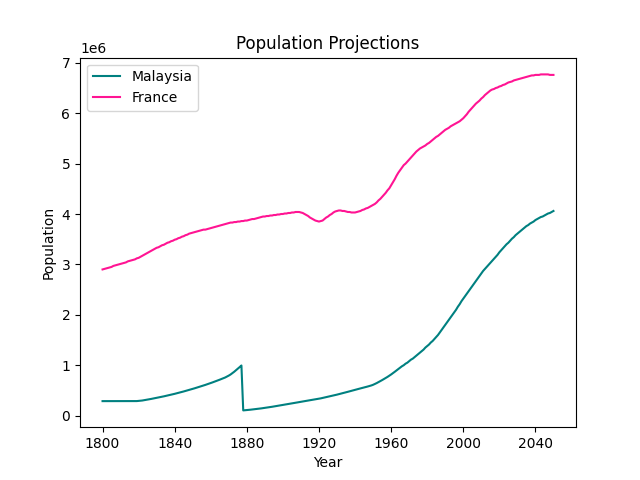
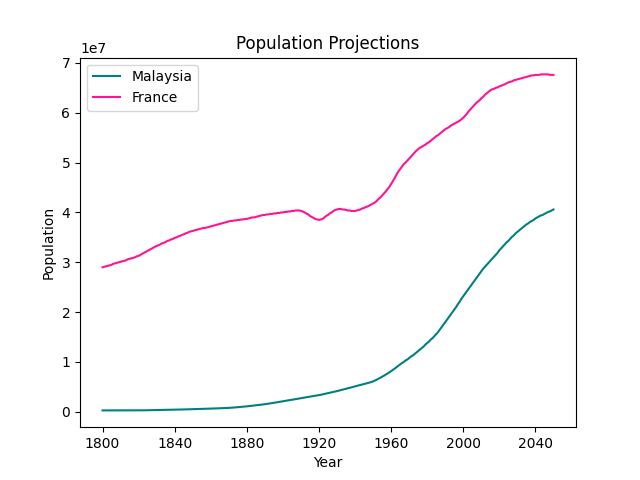
updated ex02 still WIP

diff --git a/ex02/aff_pop.py b/ex02/aff_pop.py
@@ -1,14 +1,19 @@
-import pandas as pd
 import matplotlib.pyplot as plt
 from load_csv import load
 
 
 def convert_abbv_to_num(abbv: str) -> int:
+
+    """
+    converts numeric abbreviation to integer.
+    for example, 4.2K to 4200
+    """
+
     NUMS_ABBV = {
-        "K": 1000,
-        "M": 100000,
-        "B": 1000000000,
-        "T": 1000000000000
+        "K": 1e3,
+        "M": 1e6,
+        "B": 1e9,
+        "T": 1e12
     }
 
     abbv_key = abbv[-1]
@@ -22,6 +27,11 @@ def convert_abbv_to_num(abbv: str) -> int:
 
 
 def main():
+
+    """
+    main
+    """
+
     try:
         df = load("population_total.csv")
 
@@ -30,7 +40,8 @@ def main():
 
         # filter data that ranges from 1800 to 2050
         filtered_df = df.loc[:, '1800':'2050']
-        
+
+        # extract all the years
         years = filtered_df.columns.astype(int)
 
         # Malaysia data
@@ -41,7 +52,8 @@ def main():
         other_country = 'France'
         other = filtered_df[df['country'] == other_country]
         other_pop_data = other.values.flatten()
-        
+
+        # plot data
         plt.plot(years, malaysia_pop_data, label='Malaysia', color='teal')
         plt.plot(years, other_pop_data, label=other_country, color='deeppink')
         plt.xlabel('Year')
